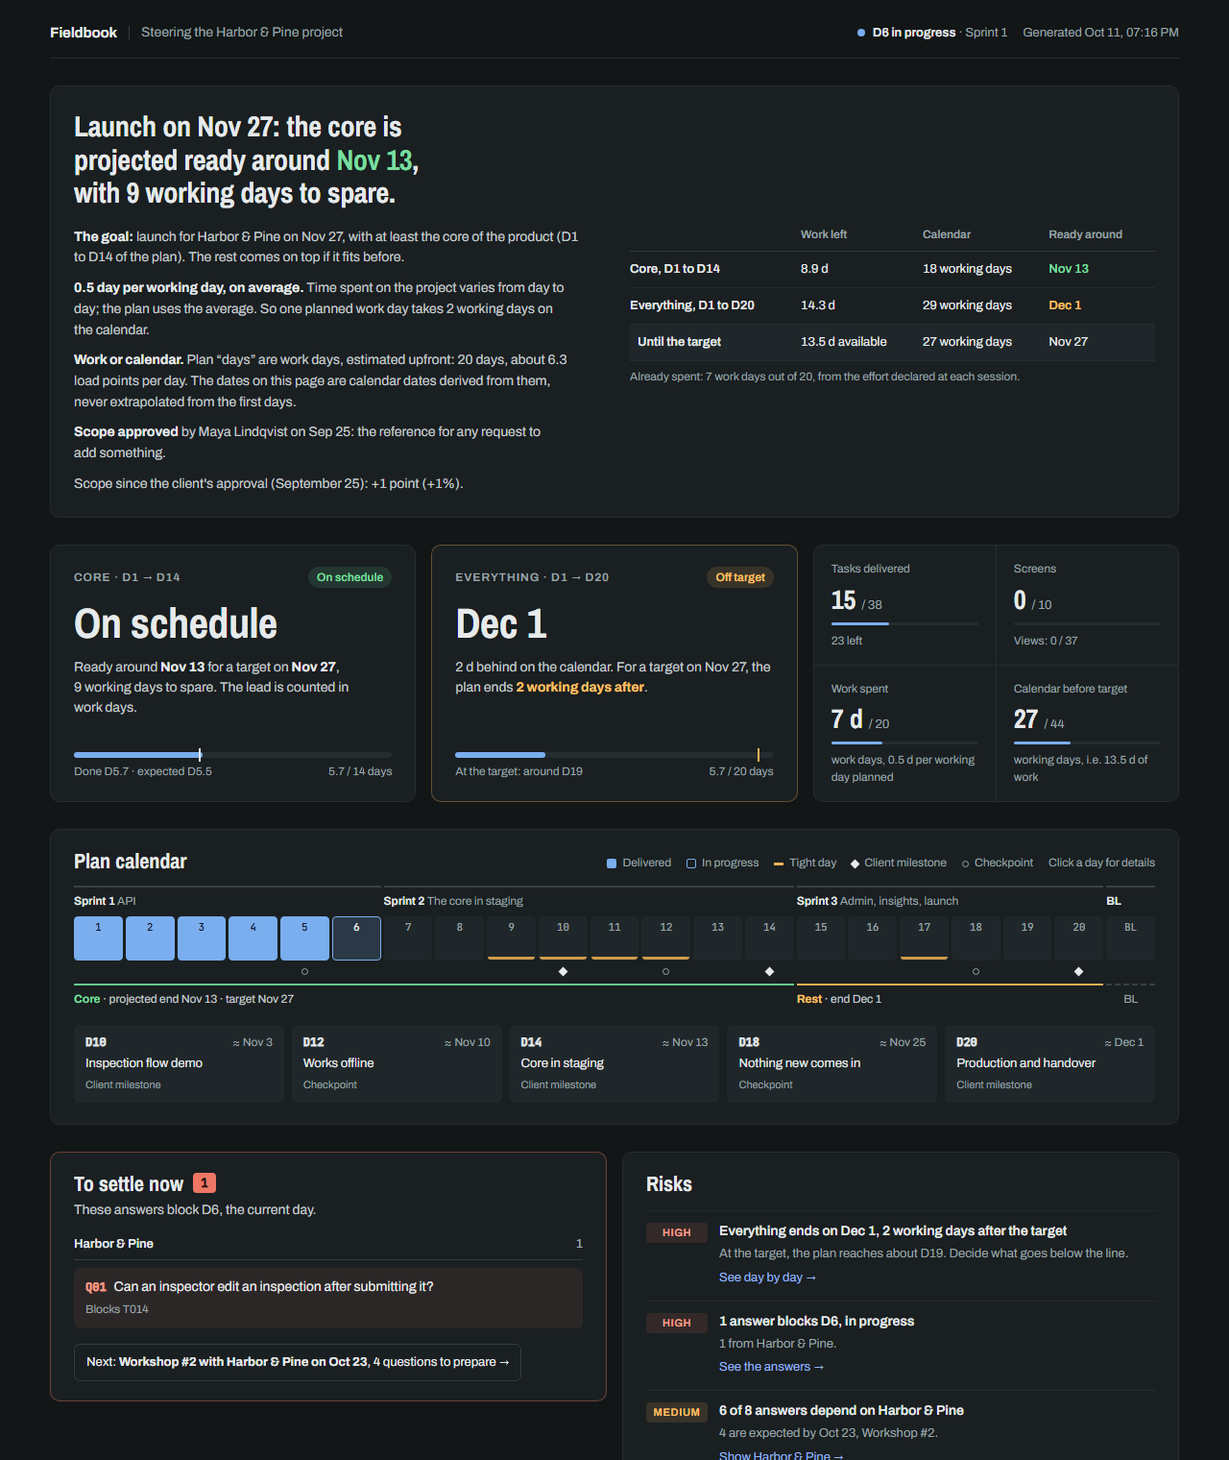
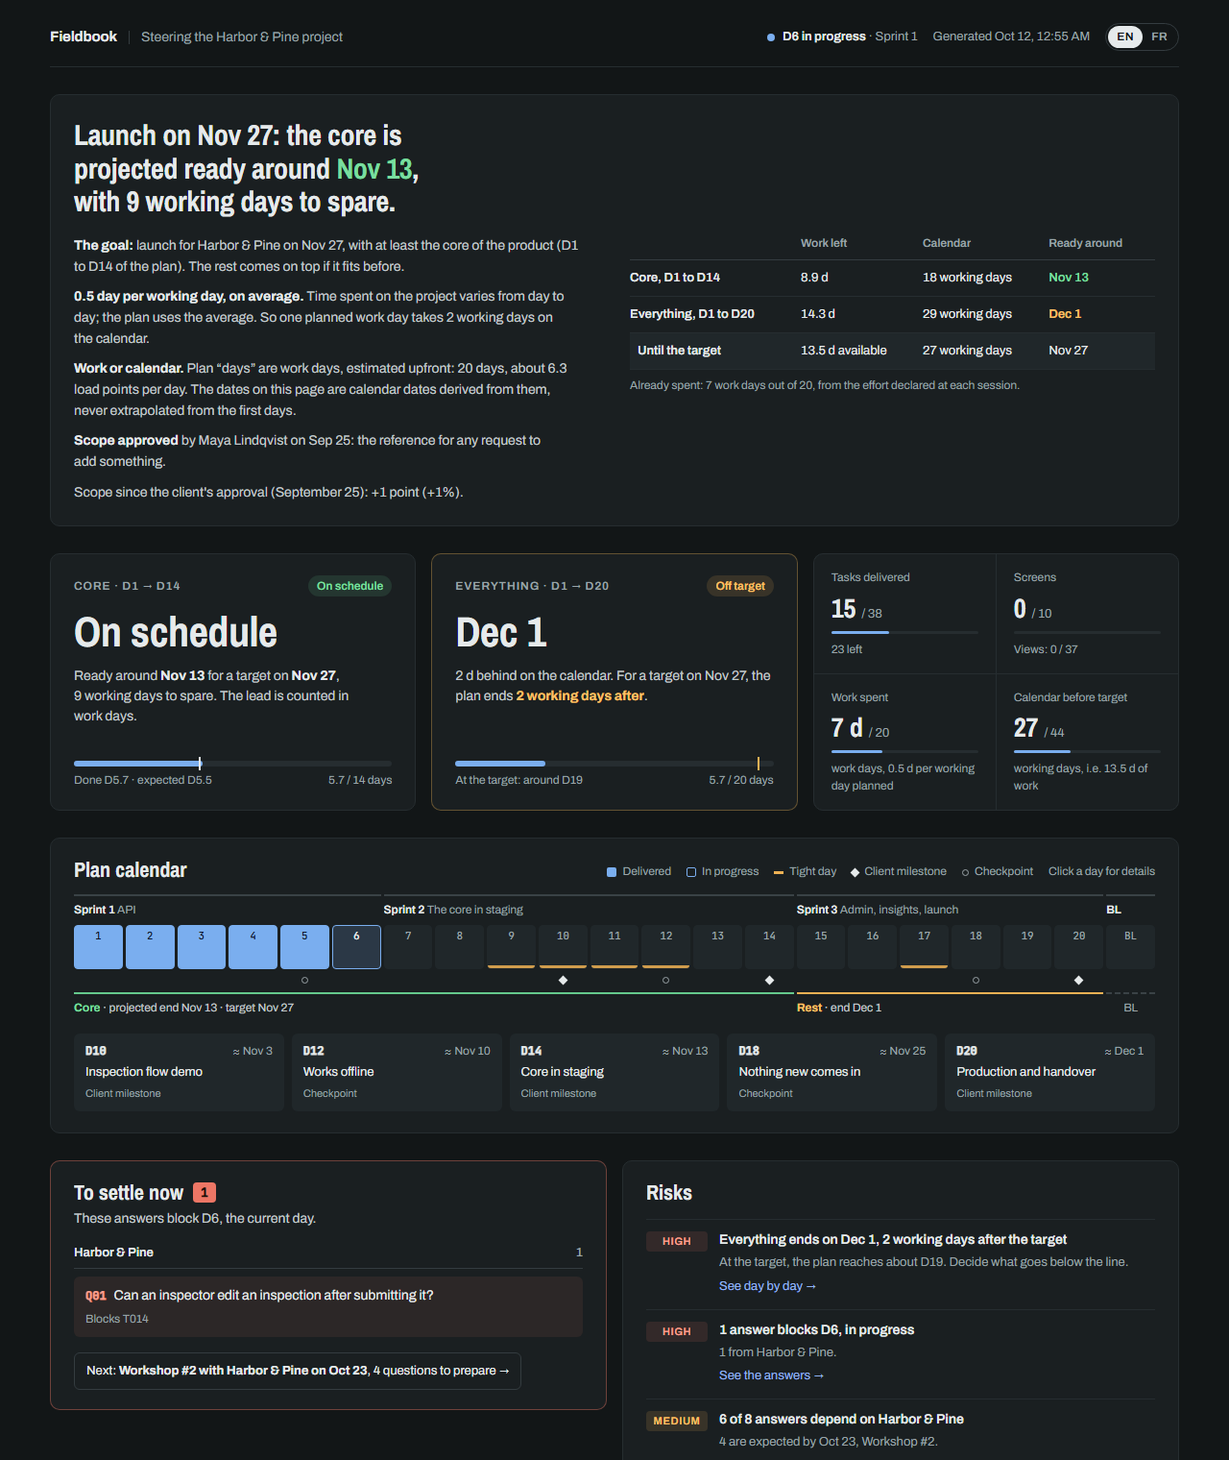
The dashboard in English and French: a switch in its header
The page carries every shipped language. It opens in the plan's, and an
EN | FR switch in the header redraws it in the other: the page's words,
date formats and the line on the scope's movement, phrased once per
language. The open tab and filters stay, and the browser remembers the
reader's choice when its storage allows it. The plan's own text (titles,
notes, questions) stays as it was written.

README.fr.md shows the dashboard in French, docs/dashboard.fr.png; the
English screenshot is redone with the switch.

diff --git a/templates/dashboard.html b/templates/dashboard.html
@@ -42,6 +42,10 @@ h2 { margin: 0; font: 700 22px/1.1 var(--font-title); text-wrap: balance; }
 .today .pill { display: inline-flex; align-items: center; gap: 8px; }
 .today .pill::before { content: ""; width: 8px; height: 8px; border-radius: 50%; background: var(--accent); }
 .today strong { color: var(--text); font-weight: 600; }
+.lang { display: inline-flex; border: 1px solid var(--line-strong); border-radius: 99px; padding: 2px; }
+.lang button { border: 0; background: transparent; color: var(--muted); border-radius: 99px; padding: 3px 9px; font-size: 12px; font-weight: 600; letter-spacing: 0.04em; }
+.lang button:hover { color: var(--text); }
+.lang button[aria-pressed="true"] { background: var(--text); color: var(--bg); }
 
 /* How to read the page: the answer, then work against the calendar */
 .explain { padding: 24px; display: flex; flex-direction: column; gap: 18px; min-width: 0; }
@@ -333,11 +337,14 @@ const D = /*__DATA__*/null;
 const makeT = /*__MAKE_T__*/null;
 const C = D.calc;
 const P = D.project;
-const t = makeT(D.strings, D.intl);
-document.documentElement.lang = D.lang;
 const $ = (id) => document.getElementById(id);
 const esc = (s) => String(s ?? '').replace(/[&<>"]/g, (c) => ({ '&': '&amp;', '<': '&lt;', '>': '&gt;', '"': '&quot;' }[c]));
-const num = t.num;
+// The page opens in the plan's language and the reader can switch to any other shipped one, a choice
+// this browser remembers when its storage allows it. Only the page's words change, never the plan's.
+const LANGS = Object.keys(D.locales);
+const LANG_KEY = 'solopilot.lang';
+let lang, L, t, goal, goalMid, focus;
+const num = (n, digits) => t.num(n, digits);
 const cap = (s) => s.charAt(0).toUpperCase() + s.slice(1);
 const YEAR = String(C.today).slice(0, 4);
 const dateShort = (s) => t.date(String(s), { day: 'numeric', month: 'short', ...(String(s).slice(0, 4) !== YEAR && { year: 'numeric' }) });
@@ -345,12 +352,20 @@ const LATER = 'later';
 const dayLabel = (d) => (d === LATER ? t('later.short') : t('day', { n: d }));
 const situation = (g) => cap(Math.abs(g) < 0.25 ? t('situation.onTime') : g > 0 ? t('situation.behind', { n: g }) : t('situation.ahead', { n: -g }));
 const workingDays = (n) => t('units.workingDays', { n });
-const goal = C.goal || t('goal');
-// After a colon, French writes on in lower case ("L'objectif : mise en ligne…"); MVP or V1 keep theirs.
-const goalMid = /^\p{Lu}\p{Ll}/u.test(goal) ? goal[0].toLocaleLowerCase() + goal.slice(1) : goal;
-const focus = num(C.focus, 2);
 const reduced = typeof matchMedia === 'function' && matchMedia('(prefers-reduced-motion: reduce)').matches;
 const pct = (a, b) => `${b ? Math.max(0, Math.min(100, (a / b) * 100)) : 0}%`;
+function setLang(next) {
+  lang = next;
+  L = D.locales[lang];
+  t = makeT(L.strings, L.intl);
+  document.documentElement.lang = lang;
+  goal = C.goal || t('goal');
+  // After a colon, French writes on in lower case ("L'objectif : mise en ligne…"); MVP or V1 keep theirs.
+  goalMid = /^\p{Lu}\p{Ll}/u.test(goal) ? goal[0].toLocaleLowerCase() + goal.slice(1) : goal;
+  focus = num(C.focus, 2);
+}
+const saved = (() => { try { return localStorage.getItem(LANG_KEY); } catch { return null; } })();
+setLang(LANGS.includes(saved) ? saved : D.lang);
 
 /* Derived data: days, tasks, and what waits for an answer */
 const plan = C.days.filter((d) => d.day !== LATER);
@@ -391,14 +406,17 @@ const byWho = (xs) => [...new Set([...(D.people || []), ...xs.map((x) => x.who)]
   .map((who) => [who, xs.filter((x) => x.who === who)]).filter(([, l]) => l.length);
 const ALL = '*';
 
-/* Header */
+/* Header, with the language switch */
 const sprint = sprintOf(C.currentDay);
-$('brand').innerHTML = `<b>${esc(P.name)}</b><i aria-hidden="true"></i><span>${esc(P.client ? t('header.subtitleClient', { client: P.client }) : t('header.subtitle'))}</span>`;
-$('today').innerHTML = `<span class="pill"><span>${C.notStarted ? `<strong>${t('header.starts', { date: dateShort(C.start) })}</strong>` : `<strong>${t('header.current', { day: dayLabel(C.currentDay) })}</strong>${sprint ? ' · ' + esc(t('sprint', { id: sprint.id })) : ''}`}</span></span>
-  <span>${t('header.generated', { date: new Date(C.generatedAt).toLocaleString(D.intl, { day: 'numeric', month: 'short', hour: '2-digit', minute: '2-digit' }) })}</span>`;
+function renderHeader() {
+  $('brand').innerHTML = `<b>${esc(P.name)}</b><i aria-hidden="true"></i><span>${esc(P.client ? t('header.subtitleClient', { client: P.client }) : t('header.subtitle'))}</span>`;
+  const langs = LANGS.length > 1 ? `<span class="lang" role="group" aria-label="${esc(t('header.language'))}">${LANGS.map((l) => `<button type="button" lang="${l}" data-lang="${l}" aria-pressed="${l === lang}">${l.toUpperCase()}</button>`).join('')}</span>` : '';
+  $('today').innerHTML = `<span class="pill"><span>${C.notStarted ? `<strong>${t('header.starts', { date: dateShort(C.start) })}</strong>` : `<strong>${t('header.current', { day: dayLabel(C.currentDay) })}</strong>${sprint ? ' · ' + esc(t('sprint', { id: sprint.id })) : ''}`}</span></span>
+    <span>${t('header.generated', { date: new Date(C.generatedAt).toLocaleString(L.intl, { day: 'numeric', month: 'short', hour: '2-digit', minute: '2-digit' }) })}</span>${langs}`;
+}
 
 /* How to read the page: a plan work day is not a calendar day */
-(() => {
+function renderExplain() {
   const m = C.margin.core;
   const range = (to) => t('range', { from: dayLabel(1), to: dayLabel(to) });
   $('thesis').innerHTML = t('explain.thesis', {
@@ -410,7 +428,7 @@ $('today').innerHTML = `<span class="pill"><span>${C.notStarted ? `<strong>${t('
     t('explain.focus', { focus, ratio: num(1 / C.focus) }),
     t('explain.work', { planDays: C.planDays, points: num(C.pointsPerDay) }),
     P.scope_agreed ? t('explain.agreed', { by: esc(P.scope_agreed.by), date: dateShort(P.scope_agreed.date) }) : '',
-    C.growthView ? esc(`${C.growthView.line}${C.growthView.details ? ` ${C.growthView.details}` : ''}`) : '',
+    L.growthView ? esc(`${L.growthView.line}${L.growthView.details ? ` ${L.growthView.details}` : ''}`) : '',
   ].filter(Boolean).map((p) => `<p>${p}</p>`).join('');
   const tone = (n) => (n < 0 ? 'warn' : 'ok');
   $('calc-table').innerHTML = `<thead><tr><th scope="col"></th><th scope="col">${t('explain.workLeft')}</th><th scope="col">${t('explain.calendar')}</th><th scope="col">${t('explain.readyBy')}</th></tr></thead><tbody>
@@ -418,11 +436,10 @@ $('today').innerHTML = `<span class="pill"><span>${C.notStarted ? `<strong>${t('
     <tr><td>${t('explain.allRow', { range: range(C.planDays) })}</td><td>${t('units.days', { n: C.work.all })}</td><td>${workingDays(C.calendarLeft.all)}</td><td class="${tone(C.margin.all)}">${dateShort(C.finish.all)}</td></tr>
     <tr class="available"><td>${t('explain.untilTarget')}</td><td>${t('explain.available', { n: C.work.available })}</td><td>${workingDays(C.remaining)}</td><td>${dateShort(C.target)}</td></tr></tbody>`;
   $('calc-note').textContent = t('explain.spent', { spent: C.spent, planDays: C.planDays });
-})();
+}
 
 /* Projection of the core and of everything */
-$('hero').setAttribute('aria-label', t('hero.label'));
-(() => {
+function renderCore() {
   const m = C.margin.core;
   $('card-core').classList.toggle('late', m < 0);
   $('card-core').innerHTML = `<div class="eyebrow"><span class="caps">${t('hero.core', { from: dayLabel(1), to: dayLabel(C.core) })}</span><span class="chip ${m < 0 ? 'urgent' : 'ok'}">${t(m < 0 ? 'hero.offTarget' : 'hero.onSchedule')}</span></div>
@@ -430,8 +447,8 @@ $('hero').setAttribute('aria-label', t('hero.label'));
     <div class="sentence">${t('hero.coreSentence', { end: dateShort(C.finish.core), target: dateShort(C.target), margin: m >= 0 ? t('hero.margin', { n: workingDays(m) }) : t('hero.afterTarget', { n: workingDays(-m) }) })}</div>
     <div class="gauge"><div class="gauge-track"><span style="width:${pct(C.planDone, C.core)}"></span><i style="left:${pct(C.expected.core, C.core)}"></i></div>
       <div class="gauge-legend"><span>${t('hero.doneExpected', { done: dayLabel(num(C.planDone)), expected: dayLabel(num(C.expected.core)) })}</span><span>${t('hero.daysOf', { done: Math.min(C.planDone, C.core), total: C.core })}</span></div></div>`;
-})();
-(() => {
+}
+function renderAll() {
   const m = C.margin.all;
   $('card-all').classList.toggle('off-target', m < 0);
   $('card-all').innerHTML = `<div class="eyebrow"><span class="caps">${t('hero.all', { from: dayLabel(1), to: dayLabel(C.planDays) })}</span><span class="chip ${m < 0 ? 'warn' : 'ok'}">${t(m < 0 ? 'hero.offTarget' : 'hero.withinTarget')}</span></div>
@@ -439,8 +456,8 @@ $('hero').setAttribute('aria-label', t('hero.label'));
     <div class="sentence">${t('hero.allSentence', { situation: situation(C.gap.all), target: dateShort(C.target) })} ${m < 0 ? t('hero.endsAfter', { n: workingDays(-m) }) : t('hero.endsBefore', { n: workingDays(m) })}</div>
     <div class="gauge"><div class="gauge-track"><span style="width:${pct(C.planDone, C.planDays)}"></span>${m < 0 ? `<i class="warn" style="left:${pct(C.planAtTarget, C.planDays)}"></i>` : ''}</div>
       <div class="gauge-legend"><span>${m < 0 ? t('hero.atTarget', { day: dayLabel(Math.floor(C.planAtTarget)) }) : t('hero.allFits')}</span><span>${t('hero.daysOf', { done: C.planDone, total: C.planDays })}</span></div></div>`;
-})();
-(() => {
+}
+function renderKpis() {
   const k = C.counters;
   const waiting = allTasks.filter((x) => waits(x).length).length;
   const openTasks = allTasks.filter((x) => x.status !== 'done' && x.status !== 'deferred').length;
@@ -453,10 +470,10 @@ $('hero').setAttribute('aria-label', t('hero.label'));
     { name: t('kpi.calendar'), value: num(C.remaining), total: C.workingDays, part: C.workingDays ? C.elapsed / C.workingDays : 1, sub: t('kpi.calendarSub', { n: C.work.available }) },
   ].map((x) => `<div class="kpi"><div class="kpi-name">${x.name}</div><div class="kpi-value"><b>${x.value}</b><span>/ ${num(x.total)}</span></div>
     <div class="kpi-bar"><span style="width:${pct(x.part, 1)}"></span></div><div class="kpi-sub">${x.sub}</div></div>`).join('');
-})();
+}
 
 /* Plan calendar */
-(() => {
+function renderTimeline() {
   $('timeline-title').textContent = t('timeline.title');
   $('legend').innerHTML = `<span><i class="l-done"></i>${t('timeline.done')}</span><span><i class="l-current"></i>${t('timeline.current')}</span><span><i class="l-tight"></i>${t('timeline.tight')}</span>
     <span><i class="l-client"></i>${t('milestone.client')}</span><span><i class="l-checkpoint"></i>${t('milestone.checkpoint')}</span><span>${t('timeline.hint')}</span>`;
@@ -485,10 +502,10 @@ $('hero').setAttribute('aria-label', t('hero.label'));
     return `<div class="milestone"><div class="milestone-head"><b>${dayLabel(m.day)}</b><span>${end ? '≈ ' + dateShort(end) : ''}</span></div>
       <div class="milestone-title">${esc(m.title)}</div><div class="milestone-type">${t('milestone.' + m.type)}</div></div>`;
   }).join('');
-})();
+}
 
 /* To settle now */
-(() => {
+function renderUrgent() {
   const toPrepare = open.filter(forMeeting);
   const next = meeting ? `<button type="button" class="next-btn" data-next="${esc(meeting.with)}">${t('urgent.next', { title: esc(meeting.title), with: esc(meeting.with), date: dateShort(meeting.date), questions: t('urgent.questions', { n: toPrepare.length }) })} →</button>` : '';
   $('urgent').classList.toggle('urgent', now.length > 0);
@@ -497,10 +514,11 @@ $('hero').setAttribute('aria-label', t('hero.label'));
     ${now.length ? `<div class="urgent-groups">${byWho(now).map(([who, l]) => `<div class="urgent-group"><div class="group-head"><span>${esc(who)}</span><span>${l.length}</span></div>
       ${l.map((x) => `<div class="urgent-item"><div><span class="mono id">${x.id}</span><span>${esc(x.title)}</span></div>${x.tasks?.length ? `<div class="blocks">${t('urgent.blocks', { ids: x.tasks.join(', ') })}</div>` : ''}</div>`).join('')}</div>`).join('')}</div>` : ''}
     ${next}`;
-})();
+}
 
 /* Risks, drawn from the data: nothing is written by hand */
-const RISKS = (() => {
+let RISKS = [];
+function findRisks() {
   const r = [];
   if (C.margin.core < 0) r.push({ level: 'high', title: t('risks.coreLate', { date: dateShort(C.finish.core), late: workingDays(-C.margin.core) }), detail: t('risks.coreLateDetail', { focus }), action: t('risks.seeDays'), tab: 'days' });
   if (C.margin.all < 0) r.push({ level: C.margin.core < 0 ? 'medium' : 'high', title: t('risks.allLate', { date: dateShort(C.finish.all), late: workingDays(-C.margin.all) }), detail: t('risks.allLateDetail', { day: dayLabel(Math.floor(C.planAtTarget)) }), action: t('risks.seeDays'), tab: 'days', day: Math.min(C.planDays, Math.max(1, Math.ceil(C.planAtTarget))) });
@@ -526,29 +544,31 @@ const RISKS = (() => {
   const never = open.filter((x) => x.unasked);
   if (never.length) r.push({ level: never.some((x) => x.level === 'now') ? 'high' : 'medium', title: t('risks.unasked', { n: never.length }), detail: t('risks.unaskedDetail', { ids: never.map((x) => x.id).join(', '), who: esc([...new Set(never.map((x) => x.who))].join(', ')) }), action: t('risks.seeAnswers'), tab: 'answers', who: ALL });
   // The scope grown past +10% since it was agreed, what was removed already deducted.
-  if (C.growthView && C.growthView.level) r.push({ level: C.growthView.level, title: t('risks.growth', { pct: esc(C.growthView.pct), since: esc(C.growthView.since) }), detail: `${esc(C.growthView.details)} ${t('risks.growthAdvice')}`.trim(), action: D.requests.length ? t('risks.seeRequests') : t('risks.seeDays'), tab: D.requests.length ? 'requests' : 'days' });
+  if (L.growthView && L.growthView.level) r.push({ level: L.growthView.level, title: t('risks.growth', { pct: esc(L.growthView.pct), since: esc(L.growthView.since) }), detail: `${esc(L.growthView.details)} ${t('risks.growthAdvice')}`.trim(), action: D.requests.length ? t('risks.seeRequests') : t('risks.seeDays'), tab: D.requests.length ? 'requests' : 'days' });
   // The real pace, once judged, durably under the estimate: the plan's own estimate may be wrong.
   if (C.pace && C.pace.risk && C.pace.finish) r.push({ level: C.pace.ratio < 0.6 ? 'high' : 'medium', title: t('risks.realPace', { n: Math.round((1 - C.pace.ratio) * 100) }), detail: t('risks.realPaceDetail', { pace: num(C.pace.value), estimate: num(C.pace.estimate), core: dateShort(C.pace.finish.core) }), action: t('risks.seeDays'), tab: 'days' });
   const order = { high: 0, medium: 1, low: 2 };
   return r.sort((a, b) => order[a.level] - order[b.level]).slice(0, 6);
-})();
-$('risks-title').textContent = t('risks.title');
-$('risks').innerHTML = RISKS.map((r, i) => `<div class="risk"><span class="level ${r.level}">${t('risks.' + r.level)}</span>
-  <div class="risk-body"><div class="risk-title">${esc(r.title)}</div><div class="risk-detail">${esc(r.detail)}</div>
-  <button type="button" class="link-btn" data-risk="${i}">${esc(r.action)} →</button></div></div>`).join('')
-  || `<p class="empty">${t('risks.none')}</p>`;
+}
+function renderRisks() {
+  RISKS = findRisks();
+  $('risks-title').textContent = t('risks.title');
+  $('risks').innerHTML = RISKS.map((r, i) => `<div class="risk"><span class="level ${r.level}">${t('risks.' + r.level)}</span>
+    <div class="risk-body"><div class="risk-title">${esc(r.title)}</div><div class="risk-detail">${esc(r.detail)}</div>
+    <button type="button" class="link-btn" data-risk="${i}">${esc(r.action)} →</button></div></div>`).join('')
+    || `<p class="empty">${t('risks.none')}</p>`;
+}
 
 /* Detail tabs */
-const TABS = [
+const tabs = () => [
   ['answers', t('tabs.answers'), open.length], ['days', t('tabs.days'), plan.length],
   ['areas', t('tabs.areas'), allTasks.filter((x) => x.status !== 'deferred').length],
   ...(D.requests.length ? [['requests', t('tabs.requests'), D.requests.length]] : []),
   ['log', t('tabs.log'), D.log.length],
 ];
-$('detail').setAttribute('aria-label', t('tabs.label'));
 const anchor = (typeof location !== 'undefined' && location.hash.slice(1)) || '';
 const state = {
-  tab: TABS.some(([id]) => id === anchor) ? anchor : 'answers', who: ALL, sprint: ALL, hideDone: false,
+  tab: tabs().some(([id]) => id === anchor) ? anchor : 'answers', who: ALL, sprint: ALL, hideDone: false,
   openDay: C.currentDay, request: ALL, openEntries: new Set(), areaFilter: 'all', search: '', openAreas: new Set(),
 };
 
@@ -665,7 +685,7 @@ function viewLog() {
 
 const VIEWS = { answers: viewAnswers, days: viewDays, areas: viewAreas, requests: viewRequests, log: viewLog };
 function renderDetail() {
-  $('tabs').innerHTML = TABS.map(([id, name, n]) => `<button type="button" role="tab" class="tab" aria-selected="${state.tab === id}" data-tab="${id}">${name}<span>${n}</span></button>`).join('');
+  $('tabs').innerHTML = tabs().map(([id, name, n]) => `<button type="button" role="tab" class="tab" aria-selected="${state.tab === id}" data-tab="${id}">${name}<span>${n}</span></button>`).join('');
   VIEWS[state.tab]();
 }
 function go(tab, options) {
@@ -681,11 +701,29 @@ function keepFocus(render) {
   if (key) document.querySelector(key)?.focus();
 }
 const dayValue = (v) => (v === LATER ? LATER : Number(v));
+// The whole page, drawn again when the reader switches language: the detail keeps its tab and filters.
+function renderPage() {
+  renderHeader();
+  renderExplain();
+  $('hero').setAttribute('aria-label', t('hero.label'));
+  renderCore();
+  renderAll();
+  renderKpis();
+  renderTimeline();
+  renderUrgent();
+  renderRisks();
+  $('detail').setAttribute('aria-label', t('tabs.label'));
+  renderDetail();
+}
 
 document.addEventListener('click', (e) => {
   const b = e.target.closest('button');
   if (!b) return;
   const d = b.dataset;
+  if (d.lang) {
+    try { localStorage.setItem(LANG_KEY, d.lang); } catch { /* no storage: the choice lasts as long as the page */ }
+    return keepFocus(() => { setLang(d.lang); renderPage(); });
+  }
   if (d.risk !== undefined) {
     const r = RISKS[Number(d.risk)];
     return go(r.tab, { ...(r.who && { who: r.who }), ...(r.day && { openDay: r.day, sprint: ALL, hideDone: false }) });
@@ -721,5 +759,5 @@ document.addEventListener('change', (e) => {
 document.addEventListener('input', (e) => {
   if (e.target.id === 'search') { state.search = e.target.value; listAreas(); }
 });
-renderDetail();
+renderPage();
 </script>

diff --git a/README.fr.md b/README.fr.md
@@ -4,7 +4,7 @@
 
 [English version](README.md)
 
-![Le tableau de bord solopilot sur le projet de démo Fieldbook](docs/dashboard.png)
+![Le tableau de bord solopilot sur le projet de démo Fieldbook](docs/dashboard.fr.png)
 
 Vous développez seul une vraie application pour un client. Pas de chef de projet, pas d'outil de tickets : un cahier des charges et une échéance. Tous les trois jours, les mêmes questions reviennent : *le cœur sera-t-il prêt à temps ? Qu'est-ce qui me bloque ? Qu'est-ce que j'attends du client, et pour quand ?*
 
@@ -21,7 +21,7 @@ solopilot y répond à partir d'un seul fichier YAML versionné dans git, sans f
 - **Des échéances qui suivent le travail.** Une question nécessaire avant le jour 9 devient urgente quand le travail atteint le jour 9, pas à une date fixée au lancement. Vous n'accusez plus un client d'être « en retard » sur un point que vous n'avez pas encore atteint.
 - **Confidentiel par construction.** Le plan vit dans son propre dossier, à côté du projet, jamais dedans. Votre client reçoit un dépôt propre ; vos retards et vos marges restent chez vous. Seuls les identifiants de tâche voyagent avec le code, dans les messages de commit : `[T024] recherche par ville`.
 - **Pensé pour Claude Code.** Le skill `/solopilot` lit vos commits taggés et propose les changements de statut. Il les écrit après votre validation, régénère le tableau de bord et poste le digest. Un hook vous rappelle quand des commits attendent d'être reportés.
-- **En français et en anglais**, pour le tableau de bord, le digest et le rapport du terminal (`locale: fr`).
+- **En français et en anglais**, pour le tableau de bord, le digest et le rapport du terminal (`locale: fr`). Le tableau de bord s'ouvre dans la langue du plan, et un sélecteur dans son en-tête passe à l'autre.
 
 ## Ce qu'il faut pour démarrer
 

diff --git a/README.md b/README.md
@@ -21,7 +21,7 @@ solopilot answers them from one YAML file you keep in git, without timesheets.
 - **Due dates follow the work.** A question needed before day 9 becomes urgent when the work reaches day 9, not on a date fixed at kickoff. You stop blaming a client for being "late" on something you have not reached yet.
 - **Private by design.** The plan lives in its own directory, next to the project, never inside it. Your client gets a clean repository; your delays and margins stay yours. Only task ids travel with the code, in commit messages: `[T024] add search`.
 - **Claude Code native.** The `/solopilot` skill reads your tagged commits, proposes status changes, writes them once you approve, rebuilds the dashboard and posts the digest. A hook reminds you when commits are waiting to be reported.
-- **English and French**, for the dashboard, the digest and the terminal report.
+- **English and French**, for the dashboard, the digest and the terminal report. The dashboard opens in the plan's language, and a switch in its header changes to the other.
 
 ## What you need to start
 

diff --git a/docs/backlog.md b/docs/backlog.md
@@ -15,7 +15,7 @@ Dates are written `YYYY-MM-DD`. Only `project`, `days` and `tasks` are required;
 | `name` | yes | Project name, shown on the dashboard and in the digest |
 | `client` | | Who the project is for. Pending requests are attributed to them by default |
 | `owner` | | You. Excluded when looking for the party most answers depend on |
-| `locale` | | `en` (default) or `fr`, or a tag such as `en-GB` to change date formats too |
+| `locale` | | `en` (default) or `fr`, or a tag such as `en-GB` to change date formats too. The dashboard opens in it, and its reader can switch to the other language |
 | `goal` | | What happens on the target date, e.g. `"Launch"` or `"Demo"` |
 | `start` | yes | Date of day 1 |
 | `target` | yes | The date you committed to: the core at least, everything ideally |

diff --git a/CHANGELOG.md b/CHANGELOG.md
@@ -1,5 +1,10 @@
 # Changelog
 
+## Unreleased
+
+- The dashboard carries English and French. It opens in the plan's language, and a switch in its header changes the page's words and date formats; the browser remembers the reader's choice. The plan's own text (titles, notes, questions) stays as it was written.
+- `README.fr.md` shows the dashboard in French (`docs/dashboard.fr.png`).
+
 ## 0.2.0
 
 The first version published on npm.
